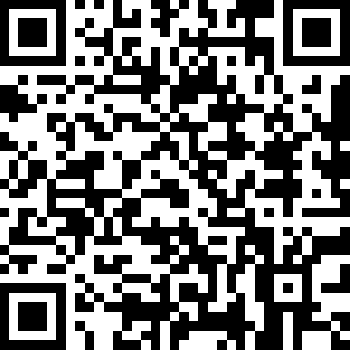
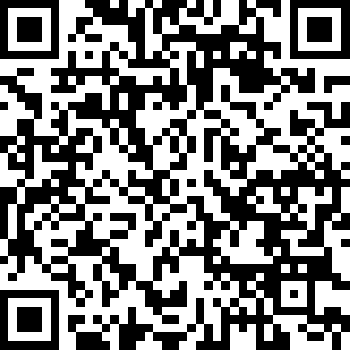
putting all the books in the library

diff --git a/waves/index.html b/waves/index.html
@@ -181,7 +181,7 @@ function buildlibrary(){
             httpc.send();
             }
         }
-        //sort by address attribute here
+        //sort by index attribute here
         for(var index = 0;index < library.length;index++){
             var newli = document.createElement("LI");
             var newa = document.createElement("A");
@@ -197,32 +197,11 @@ function buildlibrary(){
 }
 
 /*
-thing.address ="book 1";
+//a library is a json array with all the thing.json from all the things in the thing library 
+thing.index ="book 1";
 thing.url = "https://github.com/lafelabs/library/";
 thing.display = "library";
 savething();
-*/
-
-
-/*
-thing.name = "Lab Notebook #3 (2024 reboot)";
-thing.location = "NIST Boulder, building 1, room 2111";
-thing.description = "Green hard cover bound notebook with NIST logo, used for daily record of Lafe Spietz's work at NIST in flux quantum electronics project in Volt group in the RF technoloogy division of the communications technology laboratory at the National Institute of Standards and Technology in Boulder, Colorado";
-thing.contact = "cell phone: (303)817-8283 email: lafe.f.spietz@nist.gov";
-thing.message = "if found, please return";
-thing.url = "https://github.com/lafefspietz/lab-notebook-number-three/";
-savething();
-*/
-
-/*
-
-a library is a json array with all the thing.json from all the things in the thing library 
-
-to create a library we need each thing to have a:
-1. address attribute
-2. display attribute
-3. url attribute
-
 */
 
 loadthing();
@@ -284,7 +263,7 @@ function loadthing(){
             document.getElementById("thinglink").href = thing.url;
             document.getElementById("thinglink").innerHTML = thing.display;
             
-
+            document.getElementById("qrcode").innerHTML = "";
             qrcode = new QRCode(document.getElementById("qrcode"), {
             	text: thing.url,
             	width: codesquaresize,
@@ -321,8 +300,8 @@ function savelibrary(){
 }
 
 function fixthing(){
-    if(thing.address == undefined){    
-        thing.address ="book 1";
+    if(thing.index == undefined){    
+        thing.index ="book 1";
     }
     if(thing.url == undefined){
         thing.url = "https://github.com/lafelabs/library/";

diff --git a/waves/README.md b/waves/README.md
@@ -1,5 +1,6 @@
 # [library](https://github.com/lafelabs/library/)
 # [index.html](index.html)
+# [thing.json](thing.json)
 
   ![qrcode](qrcode.png)
   
@@ -44,7 +45,7 @@ Now you have cloned the repository for this physical object. To create your own 
 2. Create a new Github repository with that name
 3. Clone to your local drive as per the previous instructions
 4. Copy and paste all the visible files from the original repository to the new repository
-5. Navigate your browser to "http://localhost/[name of repo here]", e.g. http://localhost/journal-number-5
+5. Navigate your browser to "http://localhost/[name-of-repo-here]", e.g. http://localhost/journal-number-5
 6. Edit the data in thing.json using index.html and push your new verison to Github using Github Desktop
 7. Change the QR code to be your specific one, save it, put it on the object 
 8. Enter repository into any relevant databases of things to make it searcheable
